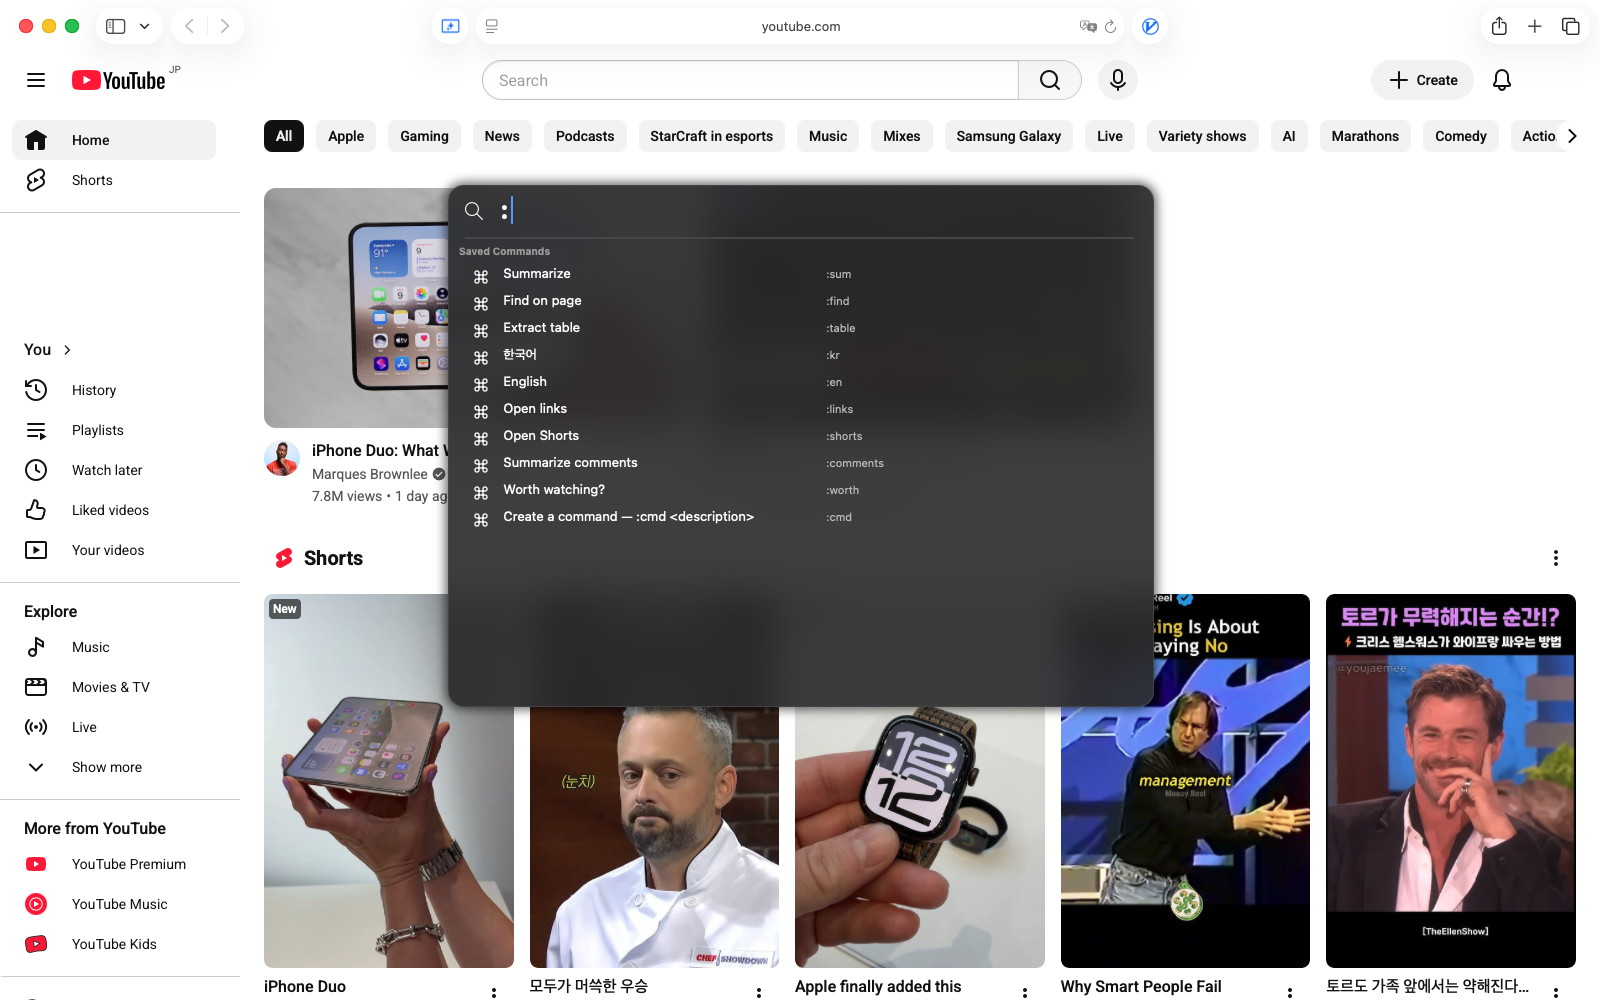
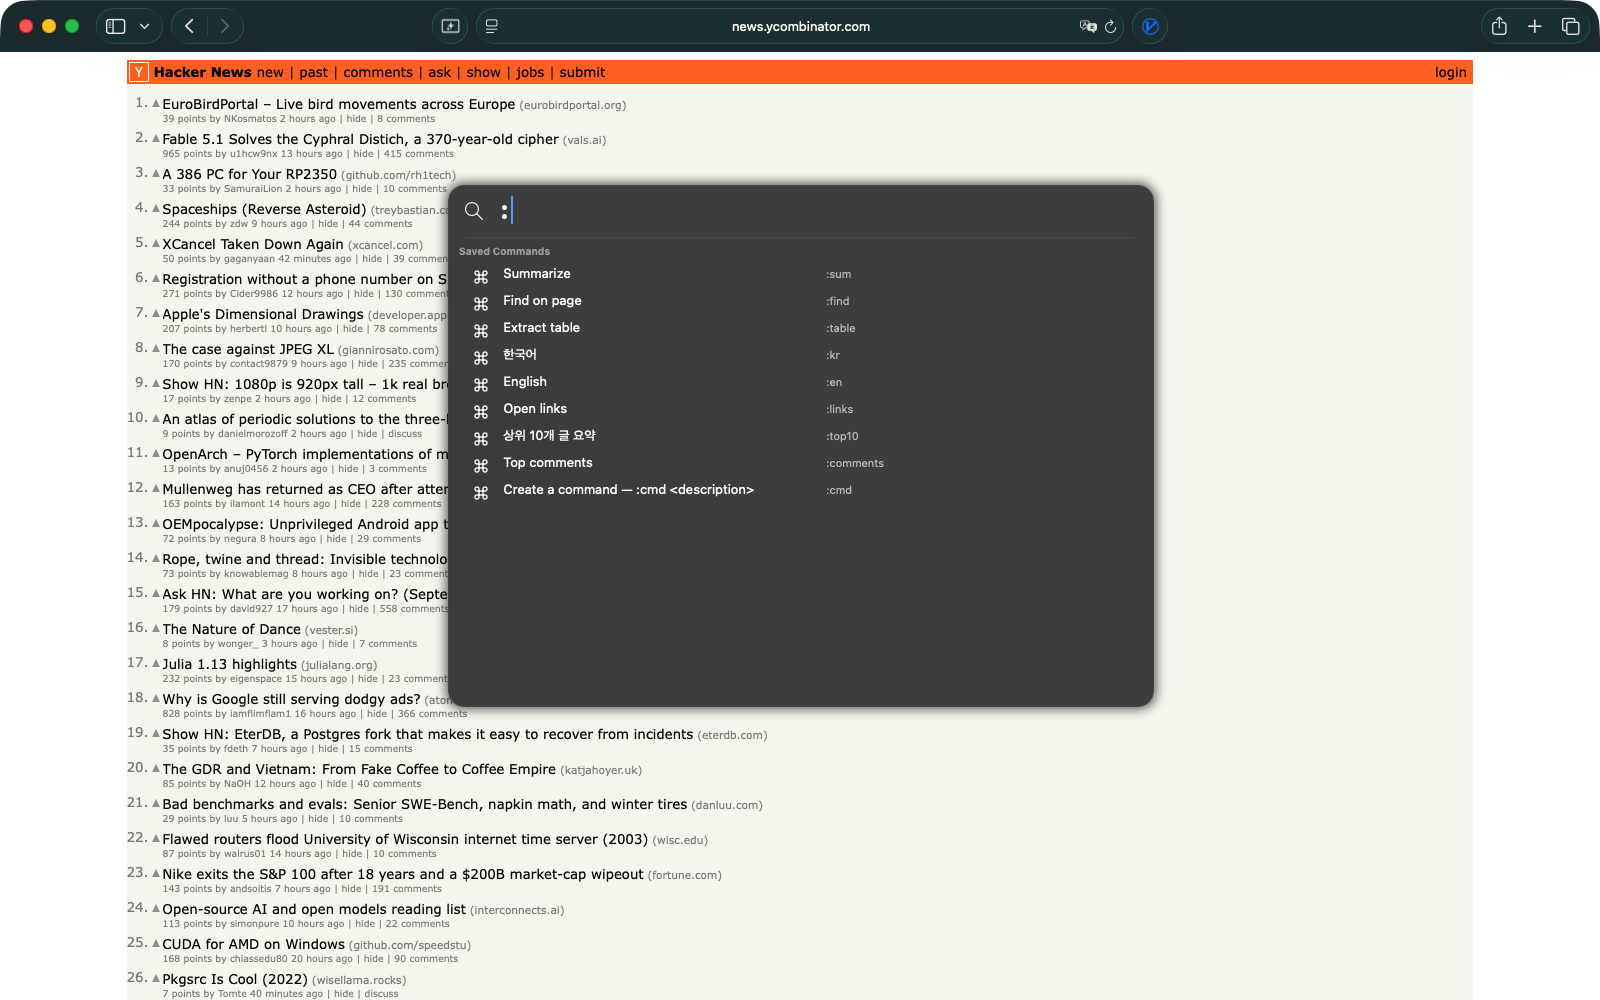
Reshoot the palette and guardrail screenshots
The command palette and its GIF were captured on YouTube, which put the
account's subscriptions and avatar in a public page; they move to Hacker
News, which shows the same story (site-specific :comments and :top10
alongside the globals) with nothing personal in frame.

The guardrail shot asked to open every link on the page, so the prompt
read "Open 100 link(s) in background tabs?" — true to the product but
not to how anyone uses it. It now asks for the five most interesting
story links, and the prompt reads "Open 5 link(s)".

Claude-Session: https://claude.ai/code/session_019i6SHk9e831Ma8nyokWSQ3

diff --git a/vimlike/preview/index.html b/vimlike/preview/index.html
@@ -162,7 +162,7 @@
       </figure>
       <figure class="frame">
         <img src="/vimlike/img/commands.gif" width="900" height="563" loading="lazy"
-             alt="Typing a colon opens the saved-command palette, which filters as you type" />
+             alt="Typing a colon opens the saved-command palette on Hacker News, filtering to this site's own commands as you type" />
       </figure>
     </div>
   </div>
@@ -201,7 +201,7 @@
       <div class="shots shots--two">
         <figure class="frame">
           <img src="/vimlike/img/05-guardrail.png" width="1600" height="1000" loading="lazy"
-               alt="A confirmation prompt reading: Open 100 links in background tabs? with Allow and Skip" />
+               alt="A confirmation prompt reading: Open 5 links in background tabs? with Allow and Skip" />
         </figure>
         <figure class="frame">
           <img src="/vimlike/img/06-report.png" width="1600" height="1000" loading="lazy"
